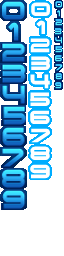
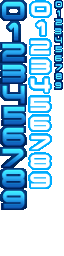
made GL_LINEAR work with scalling
the sprites can't touch each other for this to work though,
so I still need to separate all the sprites like I did on Numbers.png

Changed region(s): [[0.4062, 0.0625, 0.8125, 0.75]]

diff --git a/src/org/open2jam/render/lwjgl/TextureLoader.java b/src/org/open2jam/render/lwjgl/TextureLoader.java
@@ -13,6 +13,7 @@ import java.util.HashMap;
 import java.util.Properties;
 import javax.imageio.ImageIO;
 import org.lwjgl.opengl.GL11;
+import org.lwjgl.opengl.GL12;
 
 /**
  * A utility class to load textures for JOGL. This source is based
@@ -91,8 +92,8 @@ class TextureLoader {
        return createTexture(image,
                          GL11.GL_TEXTURE_2D, // target
                          GL11.GL_RGBA,     // dst pixel format
-                         GL11.GL_NEAREST, // min filter (unused)
-                         GL11.GL_NEAREST);
+                         GL11.GL_LINEAR, // min filter (unused)
+                         GL11.GL_LINEAR);
     }
     
     /**
@@ -123,7 +124,7 @@ class TextureLoader {
         
         // bind this texture 
         GL11.glBindTexture(target, textureID);
-
+        
 
         if (image.getColorModel().hasAlpha()) {
             srcPixelFormat = GL11.GL_RGBA;
@@ -139,6 +140,12 @@ class TextureLoader {
             GL11.glTexParameteri(target, GL11.GL_TEXTURE_MIN_FILTER, minFilter);
             GL11.glTexParameteri(target, GL11.GL_TEXTURE_MAG_FILTER, magFilter);
         }
+
+        GL11.glPixelStorei(GL11.GL_UNPACK_ALIGNMENT, 1);
+        GL11.glTexParameteri(target, GL11.GL_TEXTURE_WRAP_S, GL12.GL_CLAMP_TO_EDGE);
+        GL11.glTexParameteri(target, GL11.GL_TEXTURE_WRAP_T, GL12.GL_CLAMP_TO_EDGE);
+        GL11.glTexEnvi(GL11.GL_TEXTURE_ENV, GL11.GL_TEXTURE_ENV_MODE, GL11.GL_REPLACE);
+
  
         // produce a texture from the byte buffer
         GL11.glTexImage2D(target, 
@@ -149,7 +156,7 @@ class TextureLoader {
                       0,
                       srcPixelFormat, 
                       GL11.GL_UNSIGNED_BYTE, 
-                      textureBuffer ); 
+                      textureBuffer );
         
         return texture; 
     }
@@ -197,7 +204,8 @@ class TextureLoader {
 		g.setColor(new Color(0f,0f,0f,0f));
 		g.fillRect(0,0,texWidth,texHeight);
 		g.drawImage(image,0,0,null);
-		
+                g.dispose();
+                
 		// build a byte buffer from the temporary image 
 		// that be used by OpenGL to produce a texture.
 		byte[] data = ((DataBufferByte) texImage.getRaster().getDataBuffer()).getData(); 
@@ -206,7 +214,6 @@ class TextureLoader {
 		imageBuffer.order(ByteOrder.nativeOrder()); 
 		imageBuffer.put(data, 0, data.length); 
 		imageBuffer.flip();
-		g.dispose();
 
 		return imageBuffer; 
 	}

diff --git a/src/org/open2jam/render/lwjgl/LWJGLGameWindow.java b/src/org/open2jam/render/lwjgl/LWJGLGameWindow.java
@@ -134,9 +134,10 @@ public class LWJGLGameWindow implements GameWindow {
             
             //the color of the COLOR_BUFFER_BIT, to be changed by the skin... i guess
             GL11.glClearColor(0.0f, 0.0f, 0.0f, 1.0f);
+            
 
             // enable apha blending
-            GL11.glBlendFunc(GL11.GL_SRC_ALPHA, GL11.GL_ONE_MINUS_SRC_ALPHA);
+            GL11.glBlendFunc(GL11.GL_ONE, GL11.GL_ONE_MINUS_SRC_ALPHA);
             GL11.glEnable(GL11.GL_BLEND);
 	    
 	    //Enable scissor test

diff --git a/src/org/open2jam/render/lwjgl/LWJGLSprite.java b/src/org/open2jam/render/lwjgl/LWJGLSprite.java
@@ -233,7 +233,7 @@ public class LWJGLSprite implements Sprite {
         GL11.glCallList(list_id);
         
         // undo the blend
-        if(blend_alpha)GL11.glBlendFunc(GL11.GL_SRC_ALPHA, GL11.GL_ONE_MINUS_SRC_ALPHA);
+        if(blend_alpha)GL11.glBlendFunc(GL11.GL_ONE, GL11.GL_ONE_MINUS_SRC_ALPHA);
 
         // restore the model view matrix to prevent contamination
         GL11.glPopMatrix();
